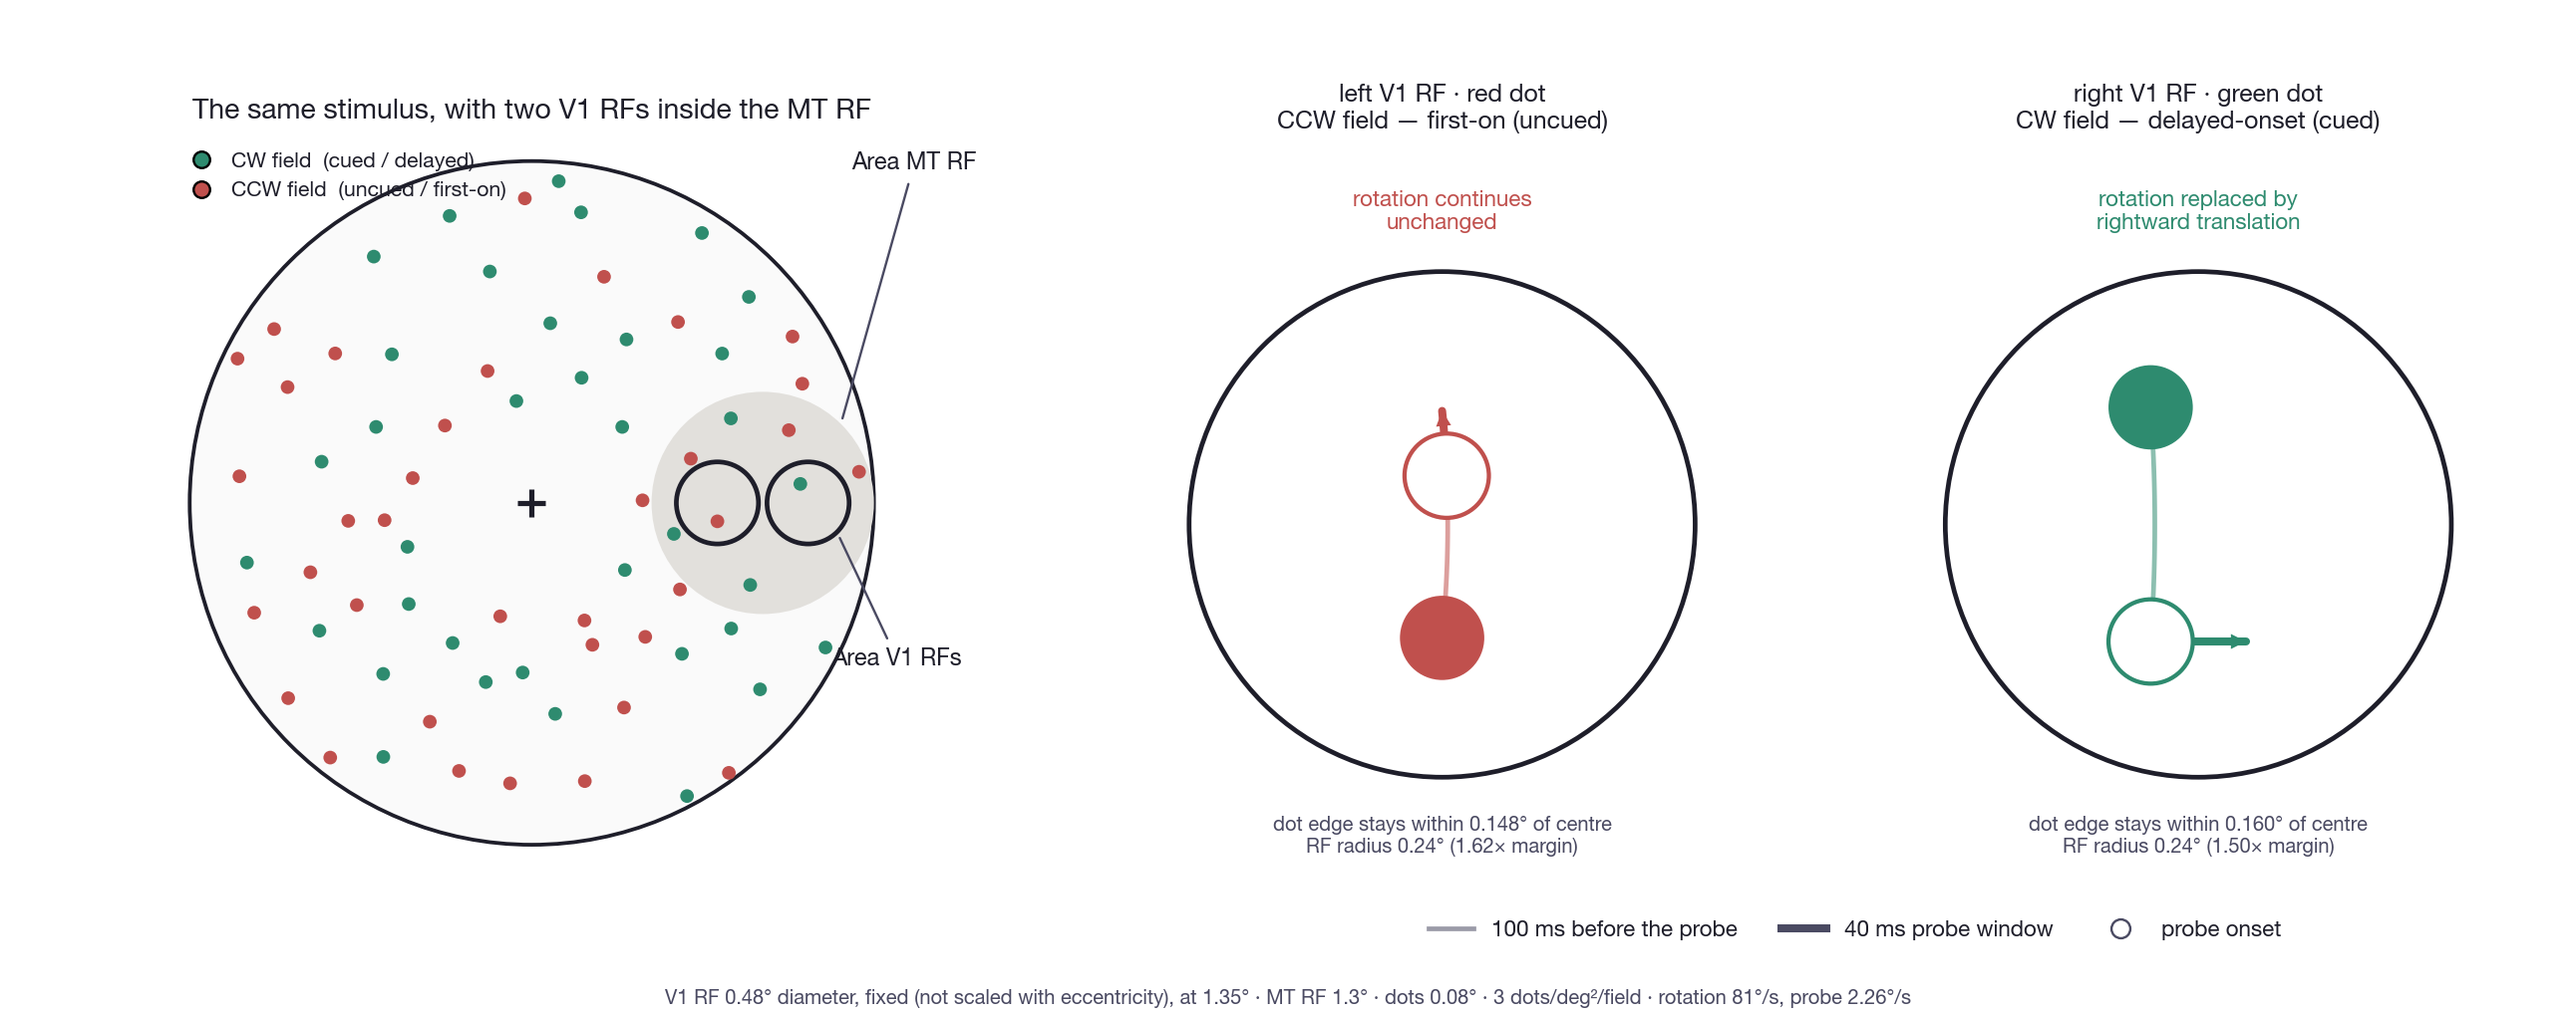
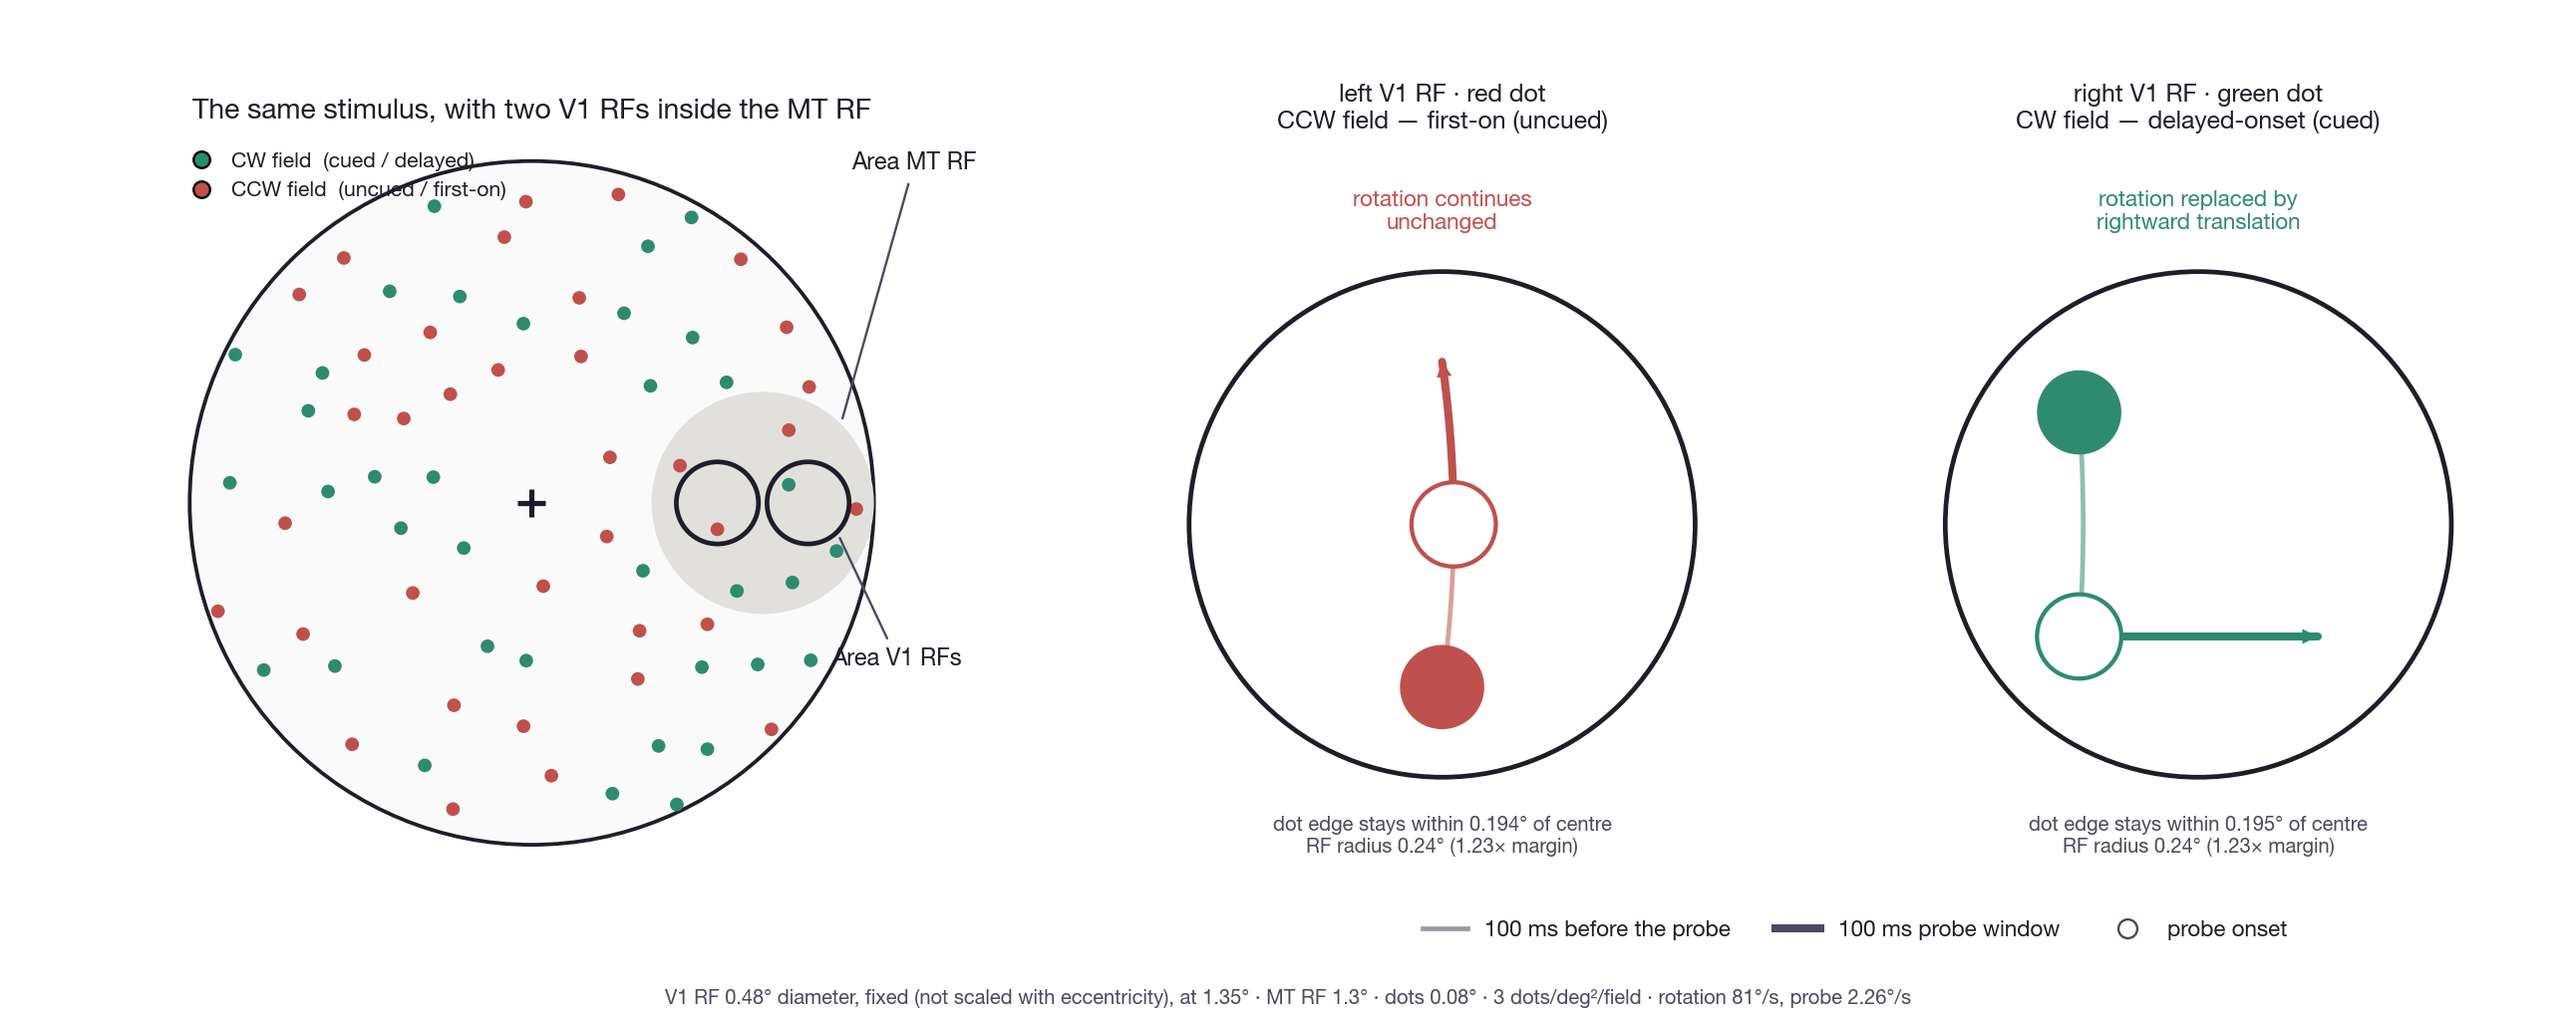
Probe is 50% coherent, and 100 ms long
VERIFICATION FIRST — GS asked whether the depicted paths match the real stimulus.
Checked against the Unity source. Three things were right and one was wrong.

RIGHT:
- Rotation is REPLACED, not added. TrialBlockRunner.cs:919-944 is a switch on
  motionKindByFrame, so the cases are mutually exclusive: a field stepping Linear
  never calls StepRotation that frame.
- The non-translating field keeps rotating. ExpSpecTestPhase.cs:611-620 overrides
  ONLY the translating field's two subfields during the probe.
- The translation is rigid and the path lengths are right: one
  d = (cos th, sin th) * speed * dt from the trial heading, added to every dot in
  the subfield (StimulusBuilder.StepTranslation). Probe leg = 2.26 deg/s * duration.

WRONG, now fixed:
- Coherence. The translating field is split across two subfields, one Linear and
  one NonCoherent. The noise half goes through StepTranslationBalanced, which is
  dirs[k % 8] * stepMeters — the SAME speed, round-robin over eight directions.
  The figure showed all four green dots moving together, overstating the probe as
  a rigid shift of the surface. Half of them now fan out.

  The selected dot in the V1 RF is coherent, as required: _probe_dirs alternates
  and index 0 is always the heading. Alternating rather than blocking matters —
  a first-half/second-half split would have made every MT-RF filler dot the same
  class and produced no fan in the blow-up at all.
[…]

diff --git a/Agents/Modeling/sb2010/ps_stimulus_common.py b/Agents/Modeling/sb2010/ps_stimulus_common.py
@@ -99,8 +99,26 @@ MT_C         = (MT_ECC_DEG, 0.0)
 OMEGA_DEG_S  = 81.0                 # Stoner & Blanc 2010
 PROBE_DEG_S  = 2.26                 # hcpsDefaults.probeDegPerSec
 PRE_MS       = 100.0                # rotation shown before the probe; hcps_twops default
-TRANS_MS     = 40.0                 # parameters.T_TRANS (3 frames @ 75 Hz)
+TRANS_MS     = 100.0                # probe duration. Real experiments span 40 ms
+                                    # (S&B, 3 frames @ 75 Hz) to 133 ms (Catak);
+                                    # VRDots runs 44 or 80. 100 sits inside that
+                                    # range and makes the probe leg of the path
+                                    # legible: 0.226 deg = 2.8 dot-widths, against
+                                    # 0.090 = 1.1 at 40 ms.
 TRANSLATING_FIELD = "cued"          # "cued" (green) or "uncued" (red)
+
+# ── coherence of the probe: 50%, exactly as the experiment does it ──
+# StimulusBuilder.StepTranslationBalanced steps the NOISE half by
+# dirs[k % 8] * stepMeters — the same speed as the coherent half, round-robin over
+# these eight directions. TrialBlockRunner.StepTranslation gives the COHERENT half
+# one rigid displacement along the trial's heading. So the probe is a 50%-coherence
+# event, not a rigid shift of the whole surface.
+COHERENCE     = 0.5
+HEADING       = np.array([1.0, 0.0])          # rightward; the trial's heading is
+                                              # one of 8 (chance = 12.5%)
+_DIRS8 = np.array([(1, 0), (1, 1), (0, 1), (-1, 1),
+                   (-1, 0), (-1, -1), (0, -1), (1, -1)], float)
+_DIRS8 = _DIRS8 / np.linalg.norm(_DIRS8, axis=1, keepdims=True)
 
 # ── sampling of the window, used when checking dots against the V1 RFs ──
 SEARCH_FRAMES = 21
@@ -138,13 +156,19 @@ def _translation_path(p0, ms, n=32, direction=(1.0, 0.0)):
     return p0[None, :] + ts * dist * d[None, :]
 
 
-def dot_trajectory(p0, sense, translates):
-    """PRE_MS of rigid rotation, then TRANS_MS of either the rightward probe (if
-    the dot's field translates) or continued rotation. One definition for every
-    dot; paths are never re-positioned."""
+def dot_trajectory(p0, sense, translates, probe_dir=None):
+    """PRE_MS of rigid rotation, then TRANS_MS of either the probe (if the dot's
+    field translates) or continued rotation.
+
+    `probe_dir` is the dot's own probe direction — the heading for a coherent dot,
+    one of `_DIRS8` for a noise dot. Defaults to the heading.
+    """
     pre = _rotation_path(p0, sense, PRE_MS)
-    during = (_translation_path(pre[-1], TRANS_MS) if translates
-              else _rotation_path(pre[-1], sense, TRANS_MS))
+    if translates:
+        d = HEADING if probe_dir is None else probe_dir
+        during = _translation_path(pre[-1], TRANS_MS, direction=d)
+    else:
+        during = _rotation_path(pre[-1], sense, TRANS_MS)
     return pre, during
 
 
@@ -206,17 +230,49 @@ def _centred_start(rf_c, sense, translates, iters=8):
 
 
 def _clears_v1(p0, sense, translates):
-    """True if this dot never overlaps either V1 RF, at any sampled frame. Applied
-    to every non-selected dot, so each V1 RF really does hold one dot and only
-    one throughout — the property the whole figure depends on."""
+    """True if this dot never overlaps either V1 RF at any point of the window.
+
+    Applied to every non-selected dot, so each V1 RF really does hold one dot and
+    only one throughout. For a translating dot the test is taken over ALL EIGHT
+    probe directions, not just the heading: coherence is assigned by index after
+    placement, so a dot must clear the RFs whichever direction it ends up with.
+    """
     keep = RF_R_DEG + DOT_DIAM_DEG / 2
-    pts = np.asarray(p0, float)[None, :]
-    for t in _TS:
-        q = _positions_at(pts, sense, translates, t)[0]
-        if (np.hypot(q[0] - RF_LEFT[0], q[1] - RF_LEFT[1]) < keep or
-                np.hypot(q[0] - RF_RIGHT[0], q[1] - RF_RIGHT[1]) < keep):
-            return False
-    return True
+    L = np.asarray(RF_LEFT); R = np.asarray(RF_RIGHT)
+
+    def hits(path):
+        for q in path[::3]:
+            if np.hypot(*(q - L)) < keep or np.hypot(*(q - R)) < keep:
+                return True
+        return False
+
+    pre = _rotation_path(p0, sense, PRE_MS)
+    if hits(pre):
+        return False
+    if translates:
+        return not any(hits(_translation_path(pre[-1], TRANS_MS, direction=d))
+                       for d in _DIRS8)
+    return not hits(_rotation_path(pre[-1], sense, TRANS_MS))
+
+
+def _probe_dirs(n):
+    """Per-dot probe direction for a translating field: alternate coherent / noise
+    so index 0 (the selected dot, which must be coherent) and the MT-RF filler dots
+    both get a mix, and cycle the noise dots through all eight directions.
+
+    Blocking them instead — first half coherent, second half noise — would put every
+    filler dot in the same class, and the MT blow-up would show no fan at all.
+    """
+    dirs = np.zeros((n, 2)); coh = np.zeros(n, bool)
+    j = 0
+    for i in range(n):
+        if i % 2 == 0:                       # index 0 -> coherent, as required
+            coh[i] = True
+            dirs[i] = HEADING
+        else:
+            dirs[i] = _DIRS8[j % len(_DIRS8)]
+            j += 1
+    return dirs, coh
 
 
 def _sample_spread(n_each, rng, accept, senses, k=None, tries=4000):
@@ -288,23 +344,35 @@ def build_layout(seed=7):
 
 FIELD_A, FIELD_B, IDX_A, IDX_B, N_FILL, N_PEPPER = build_layout()
 
+# Probe direction per dot, for whichever field translates. The selected dot is
+# index 0 and comes out coherent, as it must — it is the one whose path the V1
+# blow-up shows staying inside its RF.
+PDIR_A, COH_A = _probe_dirs(len(FIELD_A))
+PDIR_B, COH_B = _probe_dirs(len(FIELD_B))
+
 
 def selected(which):
-    """(start position, colour, sense, translates, RF centre) for a chosen dot."""
+    """(start, colour, sense, translates, RF centre, probe direction) for a chosen
+    dot. Both are coherent — index 0 of `_probe_dirs` always is."""
     if which == "left":
-        return (FIELD_A[IDX_A], RED, "CCW", TRANSLATING_FIELD == "uncued", RF_LEFT)
-    return (FIELD_B[IDX_B], GREEN, "CW", TRANSLATING_FIELD == "cued", RF_RIGHT)
+        return (FIELD_A[IDX_A], RED, "CCW", TRANSLATING_FIELD == "uncued",
+                RF_LEFT, PDIR_A[IDX_A])
+    return (FIELD_B[IDX_B], GREEN, "CW", TRANSLATING_FIELD == "cued",
+            RF_RIGHT, PDIR_B[IDX_B])
 
 
 def dots_in(centre, radius):
-    """Every dot whose START position lies in a region — used by the blow-ups."""
+    """Every dot whose START position lies in a region, with its own probe
+    direction — used by the blow-ups. Returns
+    (position, colour, sense, translates, probe_dir, coherent)."""
     out = []
-    for pts, colour, sense, role in [(FIELD_B, GREEN, "CW", "cued"),
-                                     (FIELD_A, RED, "CCW", "uncued")]:
+    for pts, dirs, coh, colour, sense, role in [
+            (FIELD_B, PDIR_B, COH_B, GREEN, "CW", "cued"),
+            (FIELD_A, PDIR_A, COH_A, RED, "CCW", "uncued")]:
         translates = (role == TRANSLATING_FIELD)
-        for p in pts:
+        for i, p in enumerate(pts):
             if np.hypot(p[0] - centre[0], p[1] - centre[1]) < radius:
-                out.append((p, colour, sense, translates))
+                out.append((p, colour, sense, translates, dirs[i], bool(coh[i])))
     return out
 
 
@@ -378,7 +446,7 @@ def excursion(path, rf_c):
 def report():
     from collections import Counter
     ins = dots_in(MT_C, MT_R_DEG)
-    c = Counter(col for _, col, _, _ in ins)
+    c = Counter(col for _, col, _, _, _, _ in ins)
     arc = np.radians(OMEGA_DEG_S) * ECC_DEG * PRE_MS / 1000.0
     print(f"density        {DENSITY} dots/deg^2/field ({N_DOTS} per field)"
           f"   [experiment 5.0]")
@@ -392,15 +460,19 @@ def report():
     print(f"\nLAYOUT CONSTRUCTED, not searched:")
     print(f"  per field    1 selected + {N_FILL} filler (in the MT RF) + "
           f"{N_PEPPER} pepper = {1 + N_FILL + N_PEPPER}  (density target {N_DOTS})")
+    n_coh = sum(1 for d in ins if d[3] and d[5])
+    n_noi = sum(1 for d in ins if d[3] and not d[5])
     print(f"  in the MT RF {len(ins)} dots -> green {c[GREEN]}, red {c[RED]}")
+    print(f"  probe        {COHERENCE:.0%} coherent: of the translating dots in the "
+          f"MT RF, {n_coh} take the heading and {n_noi} fan over 8 directions")
     print(f"  V1 RFs       placed symmetrically about the MT RF centre, so inside "
           f"it by construction")
     print(f"  every other dot is verified to clear BOTH V1 RFs at all "
           f"{SEARCH_FRAMES} sampled frames")
     print(f"\nCONTAINMENT of the two selected dots (edge, not centre):")
     for which in ("left", "right"):
-        p0, _, sense, tr, rf_c = selected(which)
-        pre, during = dot_trajectory(p0, sense, tr)
+        p0, _, sense, tr, rf_c, pd = selected(which)
+        pre, during = dot_trajectory(p0, sense, tr, pd)
         exc = excursion(np.vstack([pre, during]), rf_c)
         e = np.hypot(*rf_c)
         print(f"  {which:5s} ecc {e:.3f}  edge reaches {exc:.4f} of RF radius "

diff --git a/Agents/Modeling/sb2010/mt_rf_figure.py b/Agents/Modeling/sb2010/mt_rf_figure.py
@@ -55,19 +55,27 @@ def fig_mt_rf(out="mt_rf_figure.png"):
     axR.add_patch(Circle(MT_C, MT_R_DEG, facecolor=SURFACE, edgecolor=INK,
                          lw=2.0, ls=(0, (5, 3)), zorder=1))
 
+    # Every dot carries its OWN probe direction. The translating field is 50%
+    # coherent, exactly as the experiment: half its dots take the heading, half
+    # fan across eight directions at the same speed. Drawing them all moving
+    # together would overstate the probe as a rigid shift of the surface.
     inside = S.dots_in(MT_C, MT_R_DEG)
-    for p, colour, sense, translates in inside:
-        pre, during = S.dot_trajectory(p, sense, translates)
+    for p, colour, sense, translates, pdir, coh in inside:
+        pre, during = S.dot_trajectory(p, sense, translates, pdir)
         S.draw_trajectory(axR, pre, during, colour,
                           lw_pre=2.0, lw_during=3.2, head=14, z=4)
         axR.add_patch(Circle(p, DOT_DIAM_DEG / 2, facecolor=colour,
                              edgecolor="none", zorder=6))
+    n_coh = sum(1 for d in inside if d[3] and d[5])
+    n_noi = sum(1 for d in inside if d[3] and not d[5])
 
     axR.text(MT_C[0] + MT_R_DEG + pad * 0.4, MT_C[1] - 0.16, "CW ≈ down",
              color=GREEN, fontsize=11, fontweight="bold", ha="left", va="center")
     axR.text(MT_C[0] + MT_R_DEG + pad * 0.4, MT_C[1] + 0.16, "CCW ≈ up",
              color=RED, fontsize=11, fontweight="bold", ha="left", va="center")
-    axR.set_title("The same RF, magnified — local motion ≈ translations",
+    axR.set_title(f"The same RF, magnified — local motion ≈ translations\n"
+                  f"probe is {S.COHERENCE:.0%} coherent: {n_coh} of the "
+                  f"{n_coh + n_noi} green dots take the heading, {n_noi} fan out",
                   fontsize=12, color=INK, pad=8)
     axR.legend(handles=[
         Line2D([0], [0], color=INK2, lw=2.0, alpha=0.55,
@@ -77,7 +85,7 @@ def fig_mt_rf(out="mt_rf_figure.png"):
         bbox_to_anchor=(0.5, -0.06))
 
     fig.text(0.5, 0.008,
-             f"rotation {OMEGA_DEG_S:g}°/s · probe {PROBE_DEG_S:g}°/s rightward · "
+             f"rotation {OMEGA_DEG_S:g}°/s · probe {PROBE_DEG_S:g}°/s for {TRANS_MS:g} ms, {S.COHERENCE:.0%} coherent · "
              f"MT RF {2*MT_R_DEG:.1f}° diameter at {MT_C[0]:g}° eccentricity · "
              f"dots {DOT_DIAM_DEG:g}° · {S.DENSITY:g} dots/deg²/field",
              ha="center", va="bottom", fontsize=8.5, color=INK2)

diff --git a/Agents/Modeling/sb2010/ps_two_rf_figure.py b/Agents/Modeling/sb2010/ps_two_rf_figure.py
@@ -34,7 +34,7 @@ from ps_stimulus_common import (INK, INK2, SURFACE, RF_R_DEG, RF_DIAM_DEG,
 
 
 def _blowup(ax, which, panel_lab, sub):
-    p0, colour, sense, translates, rf_c = S.selected(which)
+    p0, colour, sense, translates, rf_c, pdir = S.selected(which)
     ax.set_aspect("equal"); ax.axis("off")
     pad = RF_R_DEG * 0.34
     ax.set_xlim(rf_c[0] - RF_R_DEG - pad, rf_c[0] + RF_R_DEG + pad)
@@ -42,7 +42,7 @@ def _blowup(ax, which, panel_lab, sub):
     ax.add_patch(Circle(rf_c, RF_R_DEG, facecolor=SURFACE, edgecolor=INK,
                         lw=2.0, zorder=1))
 
-    pre, during = S.dot_trajectory(p0, sense, translates)
+    pre, during = S.dot_trajectory(p0, sense, translates, pdir)
     S.draw_trajectory(ax, pre, during, colour, 2.0, 3.4, 16, z=4)
     ax.add_patch(Circle(p0, DOT_DIAM_DEG / 2, facecolor=colour,
                         edgecolor="none", zorder=6))
